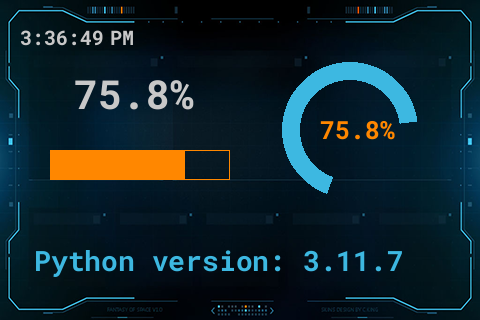
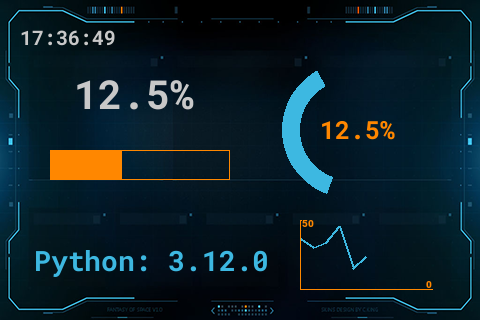
Restore line graphs for custom sensors

diff --git a/library/lcd/lcd_comm.py b/library/lcd/lcd_comm.py
@@ -327,17 +327,21 @@ class LcdComm(ABC):
         self.DisplayPILImage(bar_image, x, y)
 
     def DisplayPlotGraph(self, x: int, y: int, width: int, height: int, min_value: int = 0, max_value: int = 100,
-                           autoscale: bool = False,  
-                           values: list[float] = (),
-                           line_color: Tuple[int, int, int] = (0, 0, 0),
-                           graph_axis: bool = True,                           
-                           background_color: Tuple[int, int, int] = (255, 255, 255),
-                           background_image: str = None):
+                         autoscale: bool = False,
+                         values: list[float] = (),
+                         line_color: Tuple[int, int, int] = (0, 0, 0),
+                         graph_axis: bool = True,
+                         axis_color: Tuple[int, int, int] = (0, 0, 0),
+                         background_color: Tuple[int, int, int] = (255, 255, 255),
+                         background_image: str = None):
         # Generate a plot graph and display it
         # Provide the background image path to display plot graph with transparent background
 
         if isinstance(line_color, str):
             line_color = tuple(map(int, line_color.split(', ')))
+
+        if isinstance(axis_color, str):
+            axis_color = tuple(map(int, axis_color.split(', ')))
 
         if isinstance(background_color, str):
             background_color = tuple(map(int, background_color.split(', ')))
@@ -346,7 +350,6 @@ class LcdComm(ABC):
         assert y <= self.get_height(), 'Progress bar Y coordinate must be <= display height'
         assert x + width <= self.get_width(), 'Progress bar width exceeds display width'
         assert y + height <= self.get_height(), 'Progress bar height exceeds display height'
-
 
         if background_image is None:
             # A bitmap is created with solid background
@@ -358,7 +361,7 @@ class LcdComm(ABC):
             # Crop bitmap to keep only the plot graph background
             graph_image = graph_image.crop(box=(x, y, x + width, y + height))
 
-        #if autoscale is enabled, define new min/max value to "zoom" the graph
+        # if autoscale is enabled, define new min/max value to "zoom" the graph
         if autoscale:
             trueMin = max_value
             trueMax = min_value
@@ -370,12 +373,12 @@ class LcdComm(ABC):
                         trueMax = value
 
             if trueMin != max_value and trueMax != min_value:
-                min_value = max (trueMin-5, min_value)
-                max_value = min (trueMax+5, max_value)
+                min_value = max(trueMin - 5, min_value)
+                max_value = min(trueMax + 5, max_value)
 
         step = width / len(values)
-        #pre compute yScale multiplier value
-        yScale = height / (max_value - min_value)       
+        # pre compute yScale multiplier value
+        yScale = height / (max_value - min_value)
 
         plotsX = []
         plotsY = []
@@ -395,29 +398,28 @@ class LcdComm(ABC):
 
                 count += 1
 
-
         # Draw plot graph
         draw = ImageDraw.Draw(graph_image)
         draw.line(list(izip(plotsX, plotsY)), fill=line_color, width=2)
 
         if graph_axis:
             # Draw axis
-            draw.line([0, height - 1, width - 1, height - 1], fill=line_color)
-            draw.line([0, 0, 0, height - 1], fill=line_color)
+            draw.line([0, height - 1, width - 1, height - 1], fill=axis_color)
+            draw.line([0, 0, 0, height - 1], fill=axis_color)
 
             # Draw Legend
-            draw.line([0, 0, 1, 0], fill=line_color)
+            draw.line([0, 0, 1, 0], fill=axis_color)
             text = f"{int(max_value)}"
             font = ImageFont.truetype("./res/fonts/" + "roboto/Roboto-Black.ttf", 10)
             left, top, right, bottom = font.getbbox(text)
             draw.text((2, 0 - top), text,
-                      font=font, fill=line_color)
+                      font=font, fill=axis_color)
 
             text = f"{int(min_value)}"
             font = ImageFont.truetype("./res/fonts/" + "roboto/Roboto-Black.ttf", 10)
             left, top, right, bottom = font.getbbox(text)
             draw.text((width - 1 - right, height - 2 - bottom), text,
-                      font=font, fill=line_color)
+                      font=font, fill=axis_color)
 
         self.DisplayPILImage(graph_image, x, y)
 

diff --git a/library/stats.py b/library/stats.py
@@ -200,6 +200,8 @@ def display_themed_plot_graph(theme_data, values):
     if not theme_data.get("SHOW", False):
         return
 
+    line_color = theme_data.get("LINE_COLOR", (0, 0, 0))
+
     display.lcd.DisplayPlotGraph(
         x=theme_data.get("X", 0),
         y=theme_data.get("Y", 0),
@@ -209,8 +211,9 @@ def display_themed_plot_graph(theme_data, values):
         max_value=theme_data.get("MAX_VALUE", 100),
         autoscale=theme_data.get("AUTOSCALE", False),
         values=values,
-        line_color=theme_data.get("LINE_COLOR", (0, 0, 0)),
+        line_color=line_color,
         graph_axis=theme_data.get("AXIS", False),
+        axis_color=theme_data.get("AXIS_COLOR", line_color),  # If no color specified, use line color for axis
         background_color=theme_data.get("BACKGROUND_COLOR", (0, 0, 0)),
         background_image=get_theme_file_path(theme_data.get("BACKGROUND_IMAGE", None))
     )
@@ -588,7 +591,7 @@ class Custom:
                     custom_stat_class = getattr(sensors_custom, str(custom_stat))()
                     string_value = custom_stat_class.as_string()
                     numeric_value = custom_stat_class.as_numeric()
-                    histo_values = custom_stat_class.as_histo()
+                    last_values = custom_stat_class.last_values()
                 except Exception as e:
                     logger.error("Error loading custom sensor class " + str(custom_stat) + " from sensors_custom.py : " + str(e))
                     return
@@ -598,17 +601,17 @@ class Custom:
 
                 # Display text
                 theme_data = config.THEME_DATA['STATS']['CUSTOM'][custom_stat].get("TEXT", None)
-                if theme_data and string_value is not None:
+                if theme_data is not None and string_value is not None:
                     display_themed_value(theme_data=theme_data, value=string_value)
 
                 # Display graph from numeric value
                 theme_data = config.THEME_DATA['STATS']['CUSTOM'][custom_stat].get("GRAPH", None)
-                if theme_data and numeric_value is not None and not math.isnan(numeric_value):
+                if theme_data is not None and numeric_value is not None and not math.isnan(numeric_value):
                     display_themed_progress_bar(theme_data=theme_data, value=numeric_value)
 
                 # Display radial from numeric and text value
                 theme_data = config.THEME_DATA['STATS']['CUSTOM'][custom_stat].get("RADIAL", None)
-                if theme_data and numeric_value is not None and not math.isnan(
+                if theme_data is not None and numeric_value is not None and not math.isnan(
                         numeric_value) and string_value is not None:
                     display_themed_radial_bar(
                         theme_data=theme_data,
@@ -617,6 +620,6 @@ class Custom:
                     )
 
                 # Display plot graph from histo values
-                theme_data = config.THEME_DATA['STATS']['CUSTOM'][custom_stat].get("PLOT", None)
-                if theme_data and histo_values:
-                    display_themed_plot_graph(theme_data=theme_data, values=histo_values)
+                theme_data = config.THEME_DATA['STATS']['CUSTOM'][custom_stat].get("LINE_GRAPH", None)
+                if theme_data is not None and last_values is not None:
+                    display_themed_plot_graph(theme_data=theme_data, values=last_values)

diff --git a/library/sensors/sensors_custom.py b/library/sensors/sensors_custom.py
@@ -21,6 +21,7 @@
 # See CustomDataExample theme for the theme implementation part
 
 import platform
+import random
 from abc import ABC, abstractmethod
 
 
@@ -40,14 +41,24 @@ class CustomDataSource(ABC):
         # If this function is empty, the numeric value will be used as string without formatting
         pass
 
+    @abstractmethod
+    def last_values(self) -> list[float]:
+        # List of last numeric values will be used for plot graph
+        # If you do not want to draw a line graph or if your custom data has no numeric values, keep this function empty
+        pass
+
 
 # Example for a custom data class that has numeric and text values
 class ExampleCustomNumericData(CustomDataSource):
+
+    # This list is used to store the last 10 values to display a line graph
+    last_val = [float(-1)] * 10  # By default, it is filed with -1 values
+
     def as_numeric(self) -> float:
         # Numeric value will be used for graph and radial progress bars
         # Here a Python function from another module can be called to get data
         # Example: return my_module.get_rgb_led_brightness() / return audio.system_volume() ...
-        return 75.845
+        return random.uniform(0, 50)
 
     def as_string(self) -> str:
         # Text value will be used for text display and radial progress bar inner text.
@@ -61,6 +72,15 @@ class ExampleCustomNumericData(CustomDataSource):
         # --> return f'{self.as_numeric():>4}%'
         # Otherwise, part of the previous value can stay displayed ("ghosting") after a refresh
 
+    def last_values(self) -> list[float]:
+        # Everytime this function is called, it gets the latest value from as_numeric(), store it to the history list,
+        # then return the new history.
+        # This function will be called to draw a line graph. Call it regularly to keep the last values updated.
+        self.last_val.append(self.as_numeric())
+        # Remove the oldest value from list
+        self.last_val.pop(0)
+        return self.last_val
+
 
 # Example for a custom data class that only has text values
 class ExampleCustomTextOnlyData(CustomDataSource):
@@ -70,4 +90,9 @@ class ExampleCustomTextOnlyData(CustomDataSource):
 
     def as_string(self) -> str:
         # If a custom data class only has text values, it won't be possible to display graph or radial bars
-        return "Python version: " + platform.python_version()
+        return "Python: " + platform.python_version()
+
+    def last_values(self) -> list[float]:
+        # If a custom data class only has text values, it won't be possible to display line graph
+        pass
+
